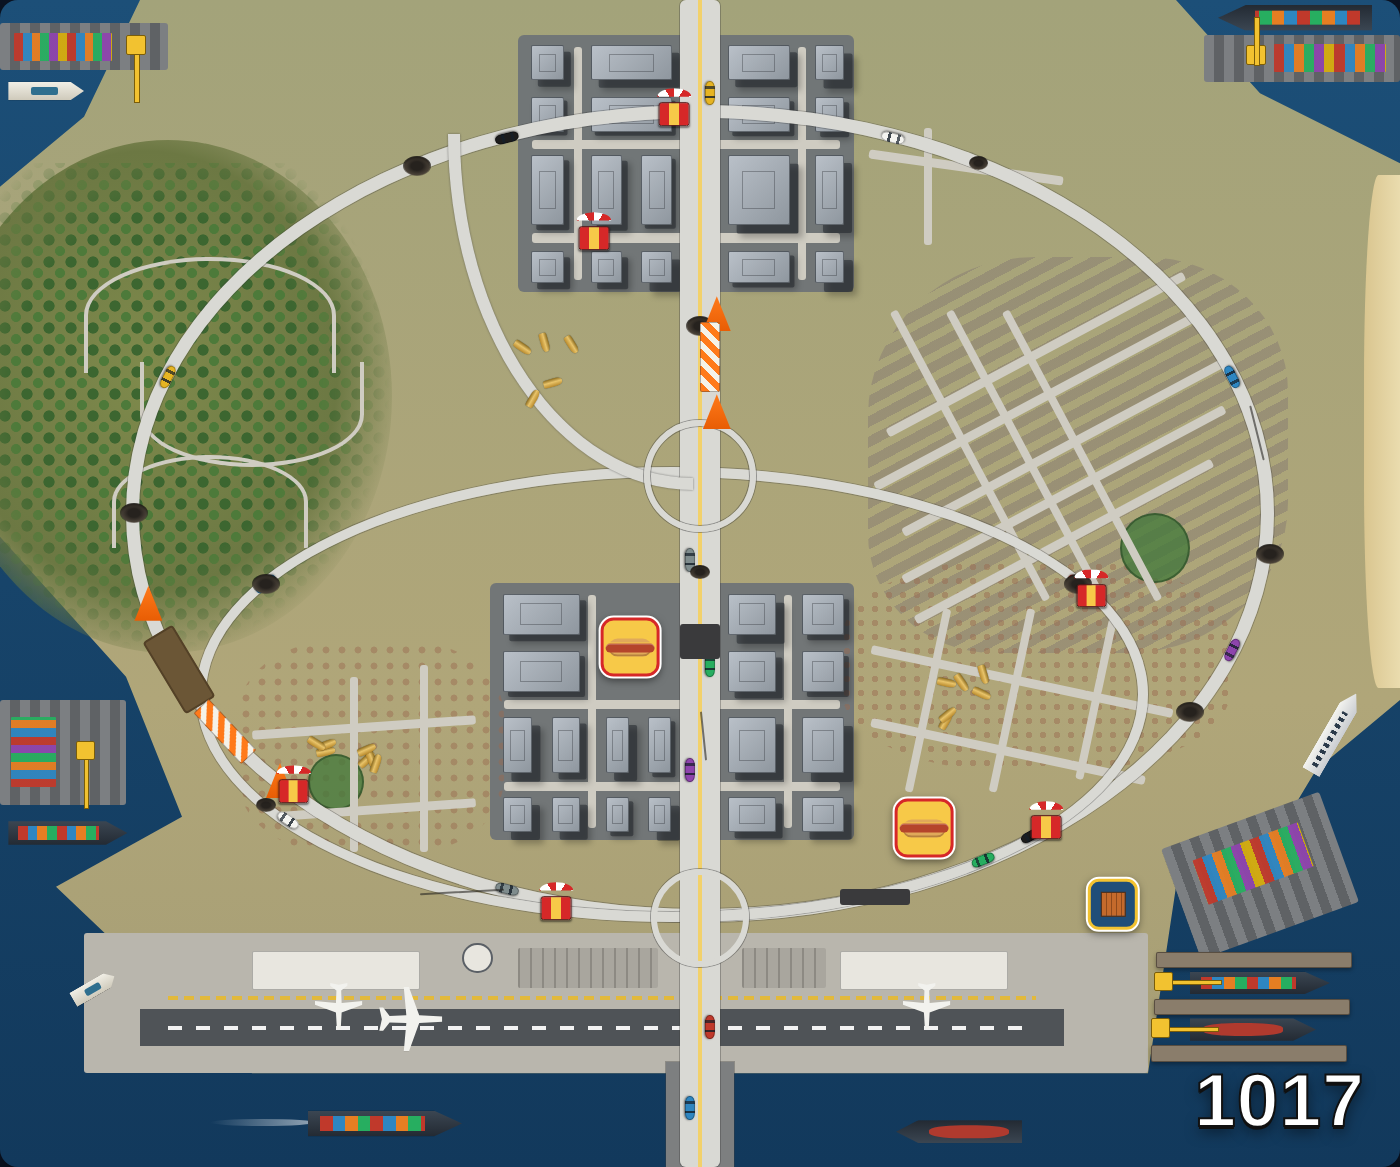
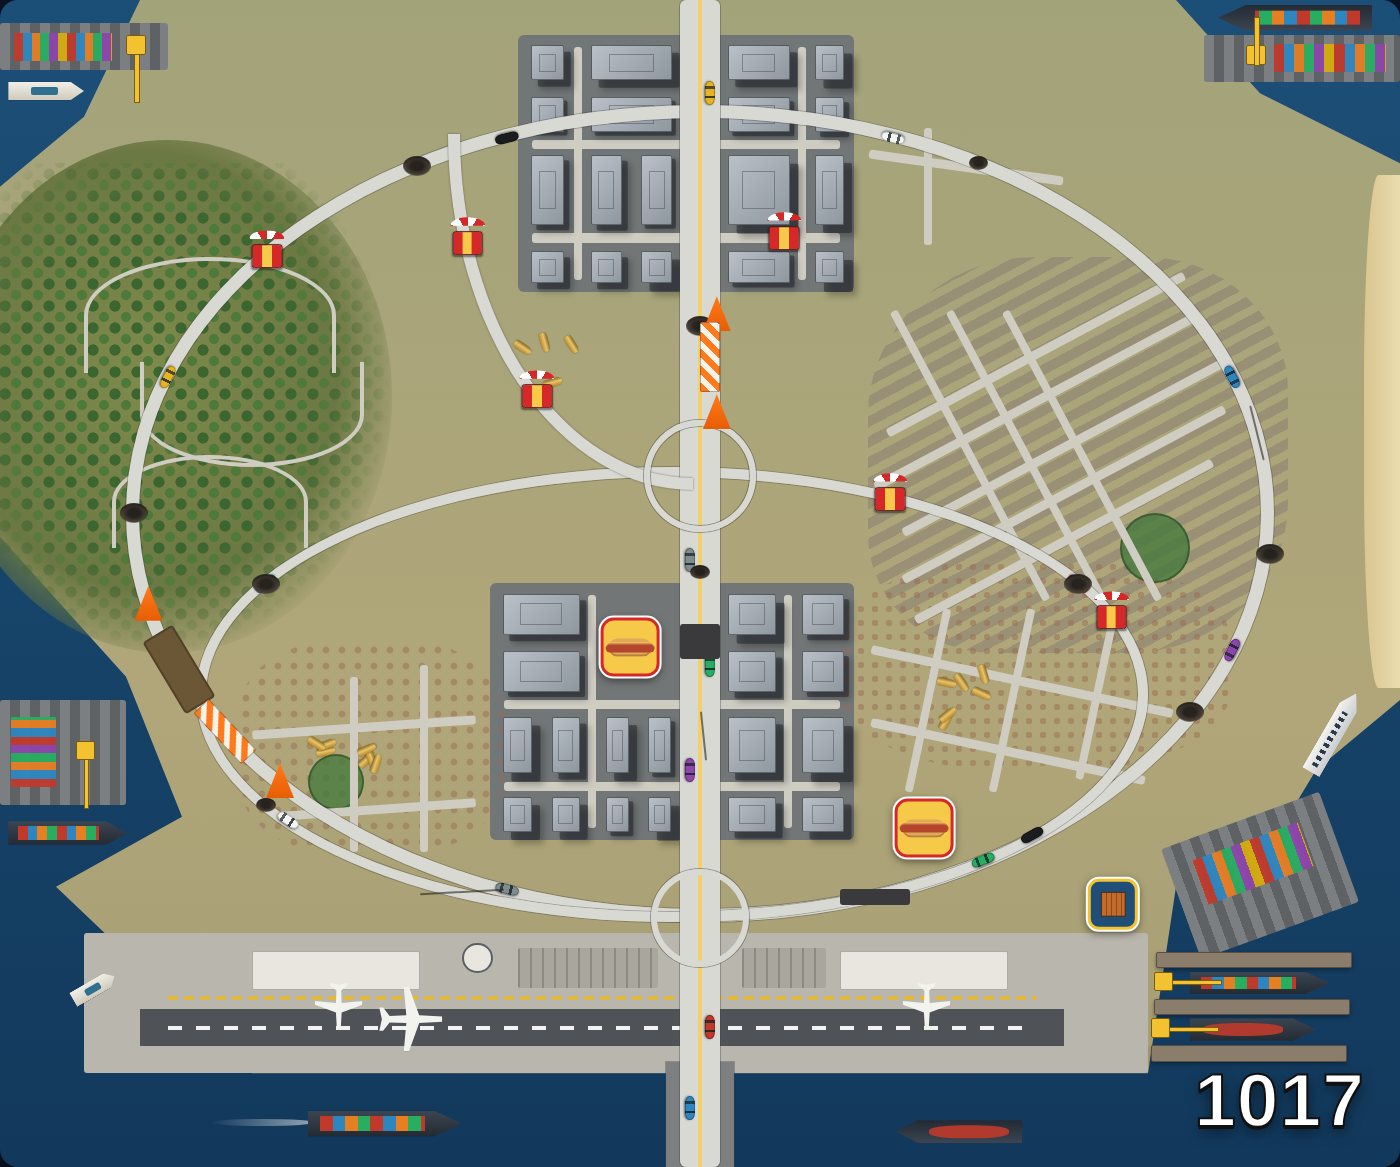
Add a legend under the 1017 inner-city map
Thirty swatches, each reusing the map's own class: roads and streets,
traffic, towers, parks, woods, houses, the beach, road wear and
construction, casings, Glizzys-2-Go carts and stations, the dockhand
station, the docks and every kind of boat, and the airport. The hot dog
cart script now only moves carts on the map, not the legend's sample.

Claude-Session: https://claude.ai/code/session_01FagBtygwPmHUod4bPZTnD1

diff --git a/1017-inner-city.html b/1017-inner-city.html
@@ -332,6 +332,23 @@
   .code { position: absolute; right: 2.5%; bottom: 2%; z-index: 5;                 /* out in the bay, off the towers */
           font-weight: 900; color: #fff; letter-spacing: 1px; font-size: clamp(28px, 5vw, 110px);
           -webkit-text-stroke: 2px #111; text-shadow: 0 3px 0 #111, 0 6px 14px rgba(0,0,0,.5); }
+
+  /* ============================================================
+     LEGEND — under the map. Each swatch reuses the map's own
+     class, re-centred in a small box.
+     ============================================================ */
+  .legend { width: min(96vw, 1400px); margin-top: 18px; padding: 16px 18px 18px;
+            background: #13223a; border: 1px solid rgba(143,165,192,.25); border-radius: 14px;
+            color: #dfe7f2; font-size: 13px; }
+  .legend h2 { font-size: 13px; letter-spacing: 2px; color: #8fa5c0; margin-bottom: 12px; font-weight: 700; }
+  .legend ul { list-style: none; display: grid; grid-template-columns: repeat(auto-fill, minmax(190px, 1fr)); gap: 10px 18px; }
+  .legend li { display: flex; align-items: center; gap: 10px; min-height: 34px; }
+  .legend .sw { position: relative; flex: 0 0 52px; height: 34px; border-radius: 6px; overflow: hidden;
+                background: #a8a67a; box-shadow: inset 0 0 0 1px rgba(0,0,0,.25); }
+  .legend .sw.water { background: #1c4f78; }
+  .legend .sw.on-apron { background: #b9b6ad; }
+  .legend .lg { position: absolute !important; left: 50% !important; top: 50% !important;
+                right: auto !important; bottom: auto !important; transform: translate(-50%, -50%) !important; }
 </style>
 <link rel="stylesheet" href="1017-inner-city-wear-and-tear.css">
 <link rel="stylesheet" href="1017-inner-city-glizzys-2-go.css">
@@ -554,6 +571,41 @@
     <div class="glizzys-2-go glizzys-2-go-6" title="Glizzys-2-Go"></div>
 
     <div class="code">1017</div>
+  </div>
+  <div class="legend">
+    <h2>LEGEND</h2>
+    <ul>
+      <li><span class="sw"><div class="road lg" style="width:46px;height:10px"></div></span>Main road</li>
+      <li><span class="sw"><div class="street lg" style="width:46px;height:5px"></div></span>Side street</li>
+      <li><span class="sw"><div class="car lg" style="width:22px;background-color:#2e86c1"></div></span>Traffic (to scale)</li>
+      <li><span class="sw"><div class="highrise lg" style="width:22px;height:22px;--floors:40"></div></span>Tower (25+ floors, hover for floors)</li>
+      <li><span class="sw"><div class="park lg" style="width:24px"></div></span>Park</li>
+      <li><span class="sw"><div class="trees lg" style="width:60px;height:40px;-webkit-mask-image:none;mask-image:none"></div></span>Woods</li>
+      <li><span class="sw"><div class="houses lg" style="width:48px;height:30px;border-radius:0"></div></span>Houses</li>
+      <li><span class="sw"><div class="beach lg" style="width:48px;height:30px;border-radius:0"></div></span>Beach</li>
+      <li><span class="sw"><div class="pothole lg" style="width:20px"></div></span>Pothole</li>
+      <li><span class="sw"><div class="patch lg" style="width:30px;height:10px"></div></span>Patched road</li>
+      <li><span class="sw"><div class="crack lg" style="width:32px"></div></span>Crack</li>
+      <li><span class="sw"><div class="barrier lg" style="width:34px;height:10px"></div></span>Construction barrier</li>
+      <li><span class="sw"><div class="cone lg" style="width:16px"></div></span>Traffic cone</li>
+      <li><span class="sw"><div class="dig lg" style="width:30px;height:16px"></div></span>Road dug up</li>
+      <li><span class="sw"><div class="casings lg" style="width:30px;height:30px"><div class="casing" style="left:10%;top:20%;width:14%;transform:rotate(30deg)"></div><div class="casing" style="left:45%;top:40%;width:14%;transform:rotate(110deg)"></div><div class="casing" style="left:70%;top:15%;width:14%;transform:rotate(70deg)"></div></div></span>Spent casings</li>
+      <li><span class="sw"><div class="glizzys-2-go lg" style="width:20px"></div></span>Glizzys-2-Go cart (moves each load)</li>
+      <li><span class="sw"><div class="glizzys-2-go-station lg" style="width:26px"></div></span>Glizzys-2-Go job station</li>
+      <li><span class="sw water"><div class="dockhand-station lg" style="width:26px"></div></span>Dockhand job station</li>
+      <li><span class="sw water"><div class="pier lg" style="width:44px;height:16px"></div></span>Dock yard</li>
+      <li><span class="sw water"><div class="pier-deck lg" style="width:40px;height:10px"></div></span>Pier</li>
+      <li><span class="sw water"><div class="containers lg" style="width:40px;height:10px"></div></span>Containers</li>
+      <li><span class="sw water"><div class="crane east lg" style="width:12px;margin-left:-10px"></div></span>Crane</li>
+      <li><span class="sw water"><div class="ship lg" style="width:44px;height:12px"></div></span>Cargo ship</li>
+      <li><span class="sw water"><div class="ship tanker lg" style="width:44px;height:12px"></div></span>Tanker</li>
+      <li><span class="sw water"><div class="ship ferry lg" style="width:40px;height:10px"></div></span>Ferry</li>
+      <li><span class="sw water"><div class="ship boat lg" style="width:28px;height:10px"></div></span>Work / fishing boat</li>
+      <li><span class="sw on-apron"><div class="runway lg" style="width:48px;height:12px"></div></span>Runway</li>
+      <li><span class="sw on-apron"><div class="taxiway lg" style="width:44px;height:3px"></div></span>Taxiway</li>
+      <li><span class="sw on-apron"><div class="parking lg" style="width:40px;height:16px"></div></span>Parking</li>
+      <li><span class="sw on-apron"><div class="plane lg" style="width:26px"></div></span>Plane</li>
+    </ul>
   </div>
   <script src="1017-inner-city-glizzys-2-go.js"></script>
 </body>

diff --git a/1017-inner-city-glizzys-2-go.js b/1017-inner-city-glizzys-2-go.js
@@ -47,7 +47,7 @@
         const lengths = ROADS.map(length);
         const total = lengths.reduce((a, b) => a + b, 0);
         const taken = [];
-        for (const cart of document.querySelectorAll(".glizzys-2-go:not(.glizzys-2-go-station)")) {
+        for (const cart of document.querySelectorAll(".map .glizzys-2-go")) {
             for (let tries = 0; tries < 300; tries++) {
                 let pick = Math.random() * total, i = 0;   // longer roads get more carts
                 while (pick > lengths[i]) pick -= lengths[i++];
